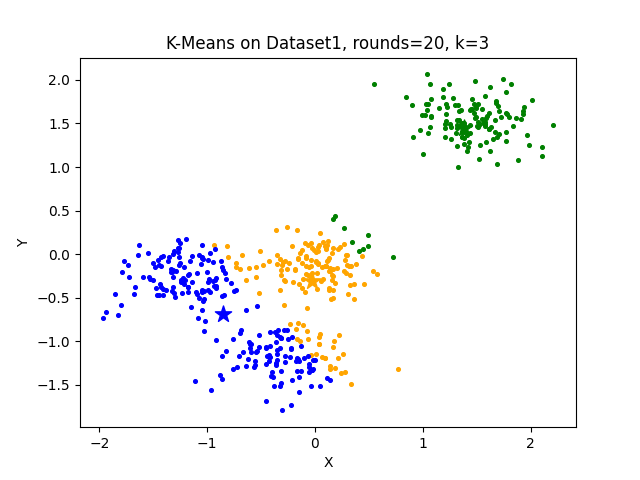
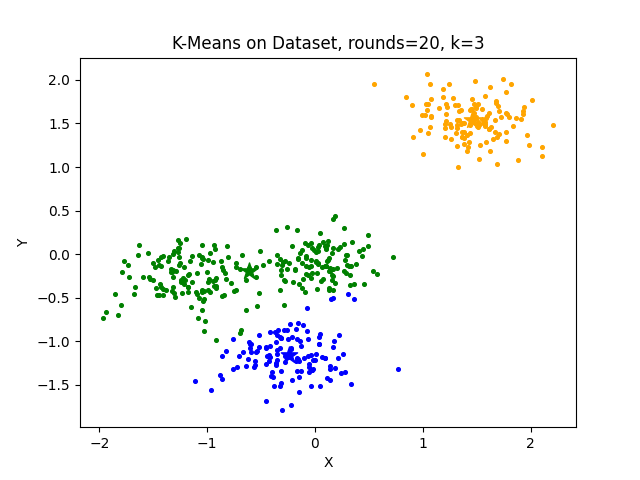
plus plus

diff --git a/HW4/Q1/k_means.py b/HW4/Q1/k_means.py
@@ -26,6 +26,27 @@ class kmeans:
         self.c = data.shape[1]  # number of features in the data
         self.colors = ['blue', 'green', 'orange', 'purple']
 
+    def plus_plus(self):
+        # Create cluster centroids using the k-means++ algorithm.
+        centroids = [self.data[0]]
+
+        for _ in range(1, self.k):
+            dist_sq = np.array([min([np.inner(c - x, c - x) for c in centroids]) for x in self.data])
+            probs = dist_sq / dist_sq.sum()
+            cumulative_probs = probs.cumsum()
+            r = np.random.rand()
+
+            i = 0
+            for j, p in enumerate(cumulative_probs):
+                if r < p:
+                    i = j
+                    break
+
+            centroids.append(self.data[i])
+
+        return np.array(centroids)
+
+    # It sometimes leads to an error because the cluster of an initial center may become empty
     def initial_centers(self):
         # Generate random centers using Gaussian distribution
         mean = np.mean(self.data, axis=0)
@@ -60,7 +81,7 @@ class kmeans:
         plt.show()
 
     def cluster(self):
-        centers = self.initial_centers()
+        centers = self.plus_plus()
         centers_new = deepcopy(centers)
 
         clusters = np.zeros(self.n)
@@ -82,7 +103,7 @@ class kmeans:
 # scatter("Dataset2.csv")
 
 data1 = pd.read_csv("Dataset1.csv")
-obj1 = kmeans(data1.to_numpy(), 2, 20)
+obj1 = kmeans(data1.to_numpy(), 4, 20)
 clusters1, centers1 = obj1.cluster()
 obj1.show(clusters1, centers1)
 

diff --git a/README.md b/README.md
@@ -314,9 +314,13 @@ Look at the pictures above, it's obvious that k-means can perform well on datase
 and for dataset2 we should use algorithms like DBSCAN.
 
 2. Implement k-means algorithm
+
 ![k-means on dataset1 with k = 2](images/dataset1k2.png)
 ![k-means on dataset1 with k = 3](images/dataset1k3.png)
 ![k-means on dataset1 with k = 4](images/dataset1k4.png)
+
+WOW!!! if you want to implement the k-means algorithm notice that using plus-plus algorithm for initializing centroids is 
+as important as hell and DOES increase the performance.
 
 3. calculating clustering error
 This is the result of one run.
